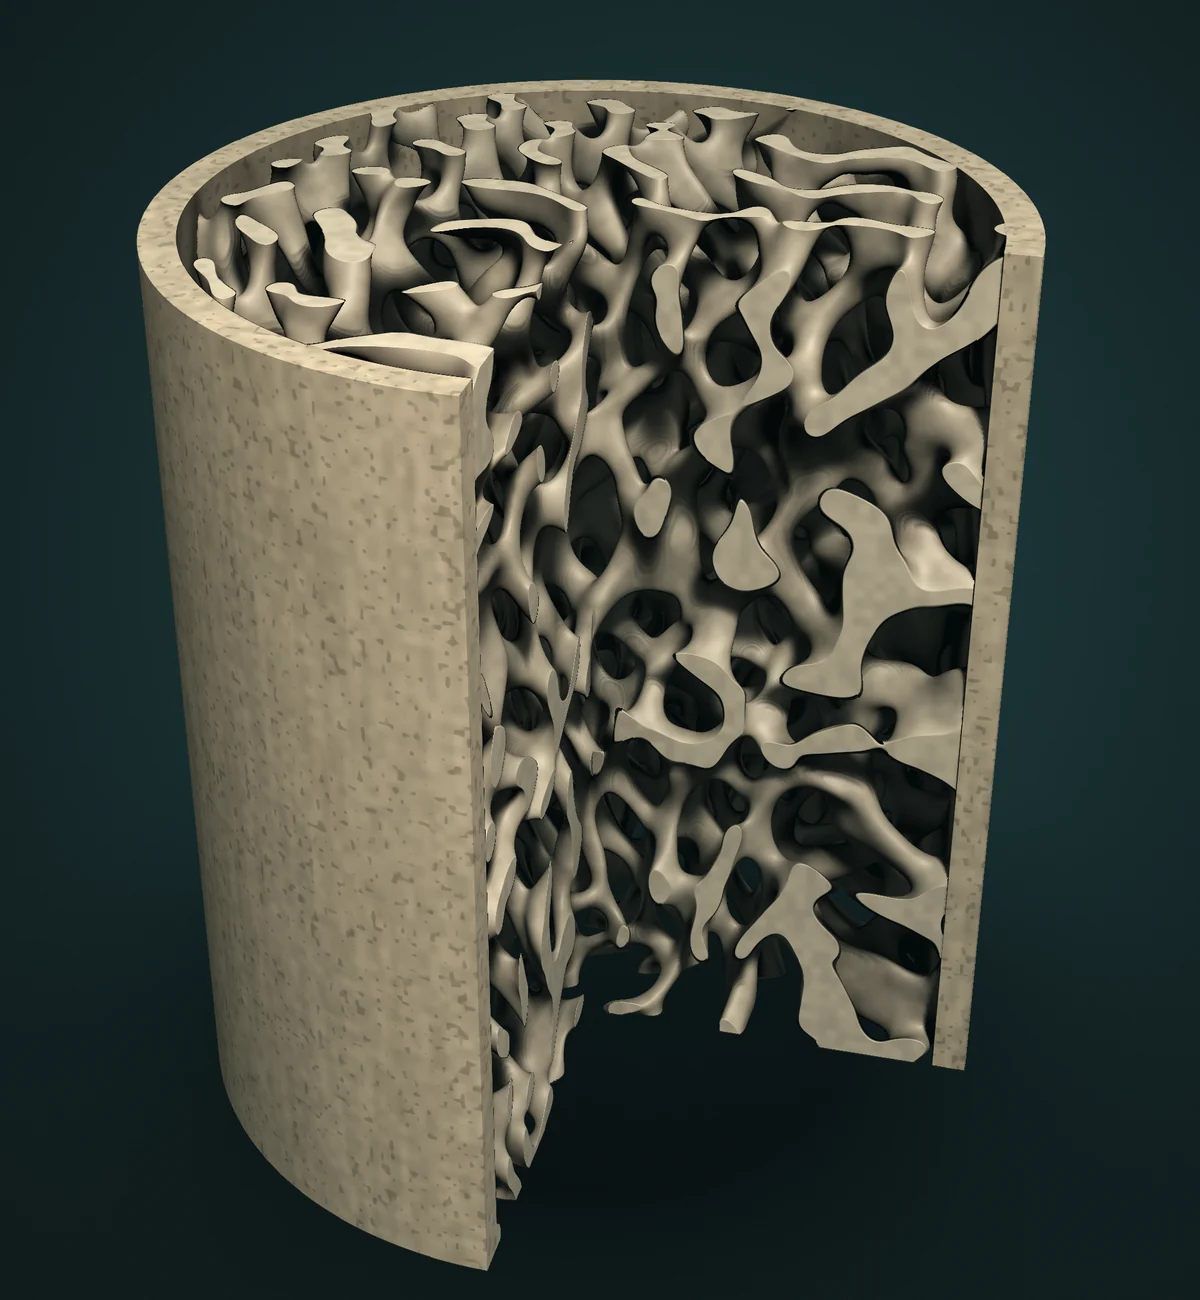
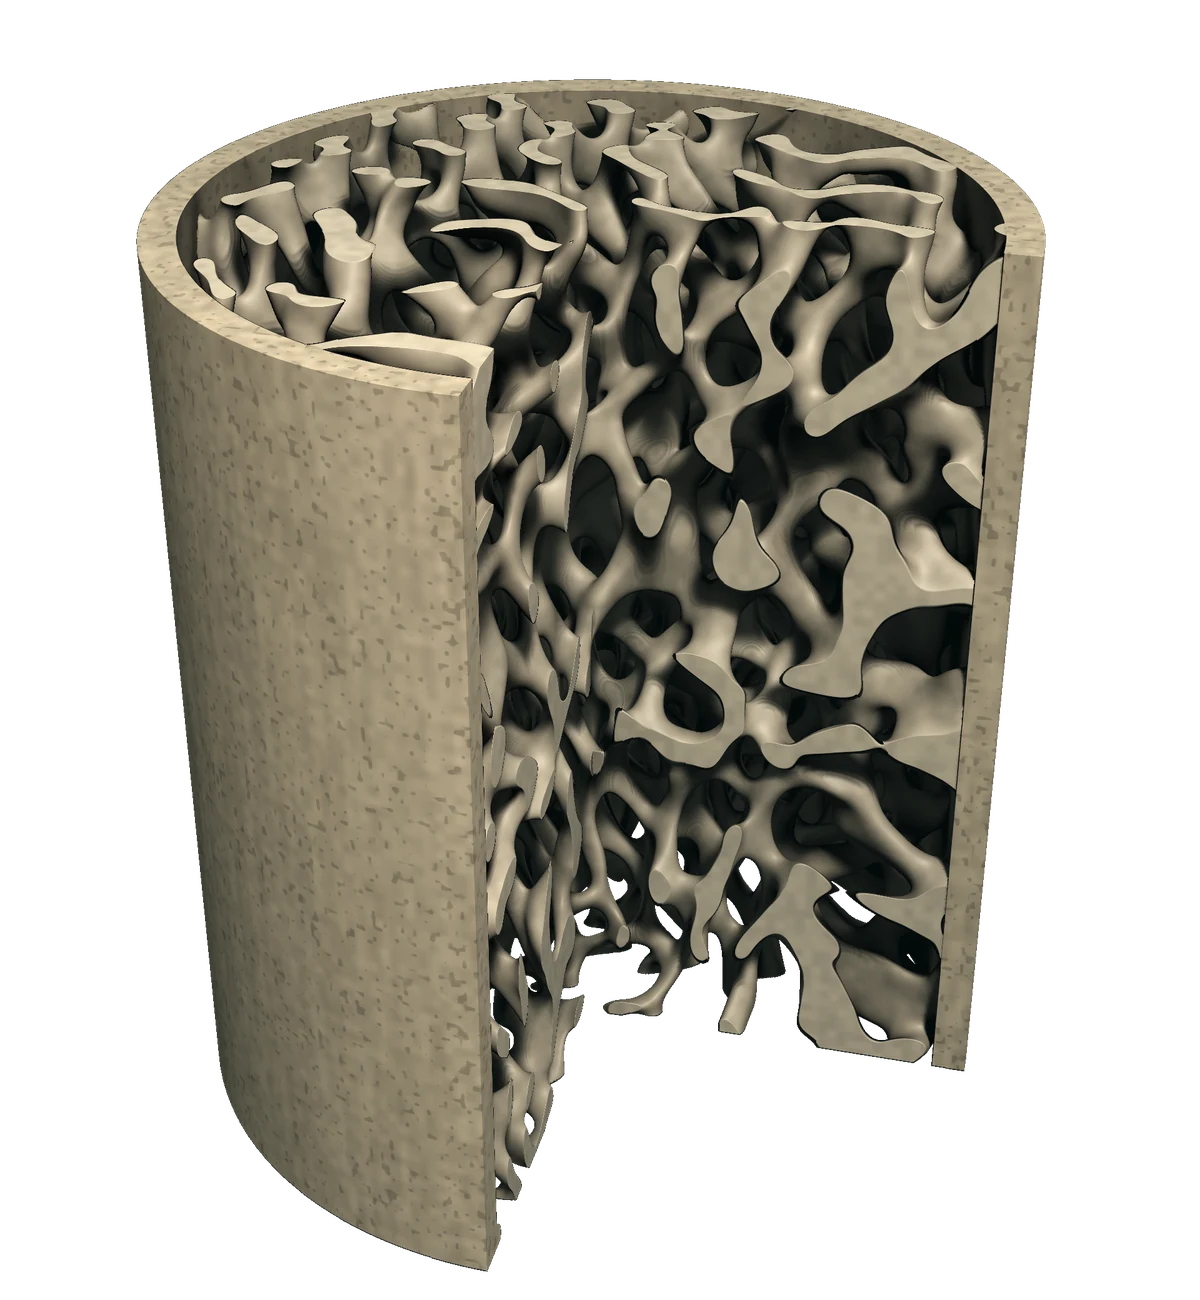
Enyx Therapeutics rev2: hero render saved with alpha and no ground of its own, so no edge of the image rect reads as a pasted box; the ambient teal glow moves to the live canvas across the whole viewport; the bone core is seated lower, clear of the header
Coordinator review of rev1: a hard vertical edge at x~695 and a horizontal
one at y~36 at 1440, where the render's lighter teal ground met the page ink.
Fixed at the source rather than feathered: render.py now writes RGBA with a
fully transparent background (no bg glow, no floor pool, tone-map and grain
applied to lit pixels only), so only the bone composites onto the page.
Pixel-scanned at 1440 (no step at either former seam) and checked by eye at
1440, 1920 and 390. clip, smoke, loader, logo, balance, overlay, polish,
buildout, reveal, mixed, unstyled all pass; prepush-check run before pushing.

Claude-Session: https://claude.ai/code/session_014388NGtjZp7StkbYhsHp9o

diff --git a/enyxtherapeutics/index.html b/enyxtherapeutics/index.html
@@ -1108,12 +1108,13 @@ var CSS=
 function slug(s){return String(s).toLowerCase().normalize("NFD").replace(/[̀-ͯ]/g,"").replace(/&/g," and ").replace(/[^a-z0-9]+/g,"-").replace(/^-+|-+$/g,"")}
 function esc(s){return String(s).replace(/[&<>"']/g,function(c){return {"&":"&amp;","<":"&lt;",">":"&gt;",'"':"&quot;","'":"&#39;"}[c]})}
 function label(a){var t=(a.getAttribute("data-label")||a.textContent||"").replace(/\s+/g," ").trim();return t}
-function isContact(a){var h=a.getAttribute("href")||"",t=label(a);return /contact/i.test(h)||/^(contact|kontakt|contacto|contatti|contactez)/i.test(t)||/^mailto:|^tel:/i.test(h)}
+var TA=["data-to","data-go","data-sec"];function tgt(a){for(var i=0;i<TA.length;i++){var v=a.getAttribute(TA[i]);if(v)return TA[i]+"="+v}return ""}
+function isContact(a){var h=a.getAttribute("href")||"",t=label(a);return /contact/i.test(h+" "+tgt(a))||/^(contact|kontakt|contacto|contatti|contactez)/i.test(t)||/^mailto:|^tel:/i.test(h)}
 /* the primary nav items: header nav links and the mobile menu list; Home, Contact and anything off-site are excluded */
 function navAnchors(){var out=[];Array.prototype.forEach.call(D.querySelectorAll("#hdr nav a[href^='#'], .hdr nav a[href^='#'], #mm a[href^='#']"),function(a){
-  var h=a.getAttribute("href");if(!h||h==="#"||h==="#/"||h==="#main"||/^#\/more\//.test(h))return;if(a.classList.contains("brand")||isContact(a)||h==="#hero"||h==="#top"||/^(home|start|accueil|inicio|startseite)$/i.test(label(a)))return;if(!label(a))return;out.push(a)});return out}
+  var h=a.getAttribute("href"),to=tgt(a);if(!h||h==="#"||(h==="#/"&&!to)||h==="#main"||/^#\/more\//.test(h))return;if(a.classList.contains("brand")||isContact(a)||h==="#hero"||h==="#top"||/^(home|start|accueil|inicio|startseite)$/i.test(label(a)))return;if(!label(a))return;out.push(a)});return out}
 function isNavItem(a){return navAnchors().indexOf(a)>=0}
-function items(){var seen={},list=[];navAnchors().forEach(function(a){var t=label(a),s=slug(t);if(!s||seen[s])return;seen[s]=1;list.push({slug:s,label:t,href:a.getAttribute("href")})});return list}
+function items(){var seen={},list=[];navAnchors().forEach(function(a){var t=label(a),s=slug(t);if(!s||seen[s])return;seen[s]=1;list.push({slug:s,label:t,href:a.getAttribute("href"),to:tgt(a)})});return list}
 function findItem(s){var l=items();for(var i=0;i<l.length;i++)if(l[i].slug===s)return l[i];return null}
 function moreSlug(h){var m=/^#\/more\/([^/?#]+)\/?$/.exec(h||"");return m?decodeURIComponent(m[1]):null}
 
@@ -1136,7 +1137,7 @@ function build(it){style();
     '<h1 class="d2 bo-h" id="boTitle" tabindex="-1" data-bo-r>'+h+'</h1>'+
     '<p class="bo-p" data-bo-r>'+esc(L.body)+'</p>'+
     '<div class="bo-act" data-bo-r><a class="btn solid" href="#/" data-bo-home>'+esc(L.back)+' '+ARR+'</a>'+
-    '<a class="bo-keep" href="'+esc(it.href)+'" data-bo-keep>'+esc(L.keep)+'</a></div></div>'+
+    '<a class="bo-keep" href="'+esc(it.href)+'" data-bo-keep'+(it.to?' data-bo-to="'+esc(it.to)+'"':'')+'>'+esc(L.keep)+'</a></div></div>'+
     '<div class="lab bo-foot" data-bo-r><span>'+esc(site)+'</span><span>'+String(idx+1).padStart(2,"0")+' / '+String(l.length).padStart(2,"0")+' · '+esc(it.label)+'</span></div></section>';
   var f=cloneFooter();if(f)bo.appendChild(f);
   bo.scrollTop=0}
@@ -1152,8 +1153,11 @@ function current(it){navAnchors().forEach(function(a){if(it&&slug(label(a))===it
 function closeMenu(cb){if(!D.body.classList.contains("menu-open")){cb();return}var b=D.getElementById("burger");if(b)b.click();setTimeout(cb,420)}
 function curtain(mid,done){var xc=D.getElementById("xc"),g=window.gsap;
   if(RM||!g||!xc){mid();if(done)done();return}
-  g.killTweensOf(xc);var tl=g.timeline({onComplete:function(){g.set(xc,{yPercent:101});if(done)done()}});
-  tl.fromTo(xc,{yPercent:101},{yPercent:0,duration:.6,ease:"power3.inOut"}).call(mid).to(xc,{yPercent:-101,duration:.6,ease:"power3.inOut"},"+=.08")}
+  /* the swap must never wait on frames: on a slow device (or a busy page) GSAP lag-smoothing can stretch the wipe, so timers guarantee both halves */
+  var m=0,d=0;function runMid(){if(m)return;m=1;mid()}function fin(){if(d)return;d=1;runMid();g.killTweensOf(xc);g.set(xc,{yPercent:101});if(done)done()}
+  g.killTweensOf(xc);var tl=g.timeline({onComplete:fin});
+  tl.fromTo(xc,{yPercent:101},{yPercent:0,duration:.6,ease:"power3.inOut"}).call(runMid).to(xc,{yPercent:-101,duration:.6,ease:"power3.inOut"},"+=.08");
+  setTimeout(runMid,750);setTimeout(function(){if(!d){tl.kill();fin()}},1700)}
 function reveal(){var g=window.gsap;if(RM||!g||!bo)return;var els=bo.querySelectorAll("[data-bo-r]");g.fromTo(els,{y:22,opacity:0},{y:0,opacity:1,duration:.9,ease:"power3.out",stagger:.07,delay:.32,clearProps:"transform,opacity"})}
 function show(it){if(baseTitle===null)baseTitle=D.title;cur=it;
   curtain(function(){
@@ -1170,22 +1174,22 @@ function hide(after){
   },after)}
 /* leave the build-out page through history so the browser stack stays [home, more]; then run cb on home */
 function leave(cb){leaving=cb||function(){};if(deep&&history.length<2){history.replaceState(null,"","#/");onHash()}else history.back()}
-function replay(href){var a=null;Array.prototype.some.call(D.querySelectorAll("#hdr nav a[href], .hdr nav a[href], #view a[href]"),function(x){if(x.getAttribute("href")===href){a=x;return true}});
+function replay(href,to){var a=null;Array.prototype.some.call(D.querySelectorAll("#hdr nav a[href], .hdr nav a[href], #view a[href]"),function(x){if(x.getAttribute("href")===href&&(!to||tgt(x)===to)){a=x;return true}});
   bypass=true;try{if(a)a.click();else location.hash=href}finally{bypass=false}}
 
 /* clicks: capture on window so this runs before the site's own (document-level) handlers */
 window.addEventListener("click",function(e){if(bypass||e.defaultPrevented||e.button>0||e.metaKey||e.ctrlKey||e.shiftKey||e.altKey)return;
   var a=e.target.closest&&e.target.closest("a[href]");if(!a)return;var h=a.getAttribute("href");
   if(open&&bo&&bo.contains(a)){
-    if(a.hasAttribute("data-bo-home")){e.preventDefault();e.stopPropagation();leave();return}
-    if(a.hasAttribute("data-bo-keep")){e.preventDefault();e.stopPropagation();leave(function(){replay(h)});return}
-    if(h.charAt(0)==="#"){e.preventDefault();e.stopPropagation();var mo=moreSlug(h);if(mo){var it=findItem(mo);if(it&&(!cur||it.slug!==cur.slug)){history.replaceState(null,"",h);show(it)}return}leave(h==="#/"||h==="#main"?null:function(){replay(h)});return}
+    if(a.hasAttribute("data-bo-home")){e.preventDefault();e.stopImmediatePropagation();leave();return}
+    if(a.hasAttribute("data-bo-keep")){e.preventDefault();e.stopImmediatePropagation();leave(function(){replay(h,a.getAttribute("data-bo-to"))});return}
+    if(h.charAt(0)==="#"){e.preventDefault();e.stopImmediatePropagation();var mo=moreSlug(h);if(mo){var it=findItem(mo);if(it&&(!cur||it.slug!==cur.slug)){history.replaceState(null,"",h);show(it)}return}leave(h==="#/"||h==="#main"?null:function(){replay(h)});return}
     return}
   if(h.charAt(0)!=="#")return;
-  if(isNavItem(a)){e.preventDefault();e.stopPropagation();var it2=findItem(slug(label(a)));if(!it2)return;var to="#/more/"+it2.slug;
+  if(isNavItem(a)){e.preventDefault();e.stopImmediatePropagation();var it2=findItem(slug(label(a)));if(!it2)return;var to="#/more/"+it2.slug;
     closeMenu(function(){if(open){if(cur&&cur.slug===it2.slug)return;history.replaceState(null,"",to);show(it2)}else{history.pushState(null,"",to);show(it2)}});return}
   if(open){/* header brand / Contact / Home while the build-out page is up: go home first, then let the site handle it */
-    e.preventDefault();e.stopPropagation();closeMenu(function(){leave(h==="#/"||h==="#main"?null:function(){replay(h)})})}
+    e.preventDefault();e.stopImmediatePropagation();closeMenu(function(){leave(h==="#/"||h==="#main"?null:function(){replay(h)})})}
 },true);
 
 /* history: this listener is registered before the site's router, so #/more/* never reaches it */
@@ -1397,7 +1401,7 @@ var field=(function(){
     var U=mob?Math.min(h*.5,w*1.08):h;
     /* the skin block's centre sits at about (0.5, 0.5) of the render */
     var ih=mob?Math.min(U*1.04,(U-96)/.8):Math.min(h*.98,cw*.8),iw=ih*(1200/1300);
-    var kx=mob?w*.5:side+cw*.79,ky=mob?(84+U-12)/2:h*.53;
+    var kx=mob?w*.5:side+cw*.79,ky=mob?(84+U-12)/2:h*.585;  /* rev2: the core sits lower, so its top rim is not crowded by the header */
     return {mob:mob,side:side,cw:cw,U:U,ih:ih,iw:iw,kx:kx,ky:ky,bh:mob?U:h};
   }
   function size(){dpr=Math.min(window.devicePixelRatio||1,2);w=document.documentElement.clientWidth||innerWidth;h=innerHeight;cv.width=Math.round(w*dpr);cv.height=Math.round(h*dpr);G=geo();if(!running)frame(true)}
@@ -1412,6 +1416,12 @@ var field=(function(){
       /* a very slow breath: push in ~4% and drift up a touch over ~44s, eased back and forth */
       var k=.5-.5*Math.cos(t*Math.PI*2/44),sc=(1+.04*k)*(1+.035*(1-e));
       var dw=G.iw*sc,dh=G.ih*sc,x=G.kx-dw*.5,y=G.ky-dh*.5-k*G.ih*.012-SP.v*G.ih*.06;
+      /* the ambient teal glow, painted across the WHOLE canvas (never inside the image rect alone), so no
+         edge of the baked render can read as a pasted box (coordinator review, rev2) */
+      var ggx=G.mob?w*.5:G.side+G.cw*.72,ggy=G.mob?G.bh*.42:h*.46,ggr=Math.max(w,h)*.78;
+      var ag=c.createRadialGradient(ggx,ggy,0,ggx,ggy,ggr);
+      ag.addColorStop(0,"rgba(22,46,48,"+(.55*e).toFixed(3)+")");ag.addColorStop(.55,"rgba(16,33,35,"+(.3*e).toFixed(3)+")");ag.addColorStop(1,"rgba(11,21,22,0)");
+      c.fillStyle=ag;c.fillRect(0,0,w,h);
       c.globalAlpha=e;c.drawImage(img,x,y,dw,dh);
       /* a faint glow breathing over the topical film */
       var pu=.5+.5*Math.sin(t*Math.PI*2/9),px=x+dw*.56,py=y+dh*.42,pr=dw*.3;

diff --git a/_kit/src/enyxtherapeutics.src.html b/_kit/src/enyxtherapeutics.src.html
@@ -1060,7 +1060,7 @@ var field=(function(){
     var U=mob?Math.min(h*.5,w*1.08):h;
     /* the skin block's centre sits at about (0.5, 0.5) of the render */
     var ih=mob?Math.min(U*1.04,(U-96)/.8):Math.min(h*.98,cw*.8),iw=ih*(1200/1300);
-    var kx=mob?w*.5:side+cw*.79,ky=mob?(84+U-12)/2:h*.53;
+    var kx=mob?w*.5:side+cw*.79,ky=mob?(84+U-12)/2:h*.585;  /* rev2: the core sits lower, so its top rim is not crowded by the header */
     return {mob:mob,side:side,cw:cw,U:U,ih:ih,iw:iw,kx:kx,ky:ky,bh:mob?U:h};
   }
   function size(){dpr=Math.min(window.devicePixelRatio||1,2);w=document.documentElement.clientWidth||innerWidth;h=innerHeight;cv.width=Math.round(w*dpr);cv.height=Math.round(h*dpr);G=geo();if(!running)frame(true)}
@@ -1075,6 +1075,12 @@ var field=(function(){
       /* a very slow breath: push in ~4% and drift up a touch over ~44s, eased back and forth */
       var k=.5-.5*Math.cos(t*Math.PI*2/44),sc=(1+.04*k)*(1+.035*(1-e));
       var dw=G.iw*sc,dh=G.ih*sc,x=G.kx-dw*.5,y=G.ky-dh*.5-k*G.ih*.012-SP.v*G.ih*.06;
+      /* the ambient teal glow, painted across the WHOLE canvas (never inside the image rect alone), so no
+         edge of the baked render can read as a pasted box (coordinator review, rev2) */
+      var ggx=G.mob?w*.5:G.side+G.cw*.72,ggy=G.mob?G.bh*.42:h*.46,ggr=Math.max(w,h)*.78;
+      var ag=c.createRadialGradient(ggx,ggy,0,ggx,ggy,ggr);
+      ag.addColorStop(0,"rgba(22,46,48,"+(.55*e).toFixed(3)+")");ag.addColorStop(.55,"rgba(16,33,35,"+(.3*e).toFixed(3)+")");ag.addColorStop(1,"rgba(11,21,22,0)");
+      c.fillStyle=ag;c.fillRect(0,0,w,h);
       c.globalAlpha=e;c.drawImage(img,x,y,dw,dh);
       /* a faint glow breathing over the topical film */
       var pu=.5+.5*Math.sin(t*Math.PI*2/9),px=x+dw*.56,py=y+dh*.42,pr=dw*.3;

diff --git a/_kit/home/enyxtherapeutics/field.js b/_kit/home/enyxtherapeutics/field.js
@@ -15,7 +15,7 @@ var field=(function(){
     var U=mob?Math.min(h*.5,w*1.08):h;
     /* the skin block's centre sits at about (0.5, 0.5) of the render */
     var ih=mob?Math.min(U*1.04,(U-96)/.8):Math.min(h*.98,cw*.8),iw=ih*(1200/1300);
-    var kx=mob?w*.5:side+cw*.79,ky=mob?(84+U-12)/2:h*.53;
+    var kx=mob?w*.5:side+cw*.79,ky=mob?(84+U-12)/2:h*.585;  /* rev2: the core sits lower, so its top rim is not crowded by the header */
     return {mob:mob,side:side,cw:cw,U:U,ih:ih,iw:iw,kx:kx,ky:ky,bh:mob?U:h};
   }
   function size(){dpr=Math.min(window.devicePixelRatio||1,2);w=document.documentElement.clientWidth||innerWidth;h=innerHeight;cv.width=Math.round(w*dpr);cv.height=Math.round(h*dpr);G=geo();if(!running)frame(true)}
@@ -30,6 +30,12 @@ var field=(function(){
       /* a very slow breath: push in ~4% and drift up a touch over ~44s, eased back and forth */
       var k=.5-.5*Math.cos(t*Math.PI*2/44),sc=(1+.04*k)*(1+.035*(1-e));
       var dw=G.iw*sc,dh=G.ih*sc,x=G.kx-dw*.5,y=G.ky-dh*.5-k*G.ih*.012-SP.v*G.ih*.06;
+      /* the ambient teal glow, painted across the WHOLE canvas (never inside the image rect alone), so no
+         edge of the baked render can read as a pasted box (coordinator review, rev2) */
+      var ggx=G.mob?w*.5:G.side+G.cw*.72,ggy=G.mob?G.bh*.42:h*.46,ggr=Math.max(w,h)*.78;
+      var ag=c.createRadialGradient(ggx,ggy,0,ggx,ggy,ggr);
+      ag.addColorStop(0,"rgba(22,46,48,"+(.55*e).toFixed(3)+")");ag.addColorStop(.55,"rgba(16,33,35,"+(.3*e).toFixed(3)+")");ag.addColorStop(1,"rgba(11,21,22,0)");
+      c.fillStyle=ag;c.fillRect(0,0,w,h);
       c.globalAlpha=e;c.drawImage(img,x,y,dw,dh);
       /* a faint glow breathing over the topical film */
       var pu=.5+.5*Math.sin(t*Math.PI*2/9),px=x+dw*.56,py=y+dh*.42,pr=dw*.3;

diff --git a/_kit/home/enyxtherapeutics/render.py b/_kit/home/enyxtherapeutics/render.py
@@ -127,24 +127,24 @@ depth = np.clip((T[hi] - 4.2) / 2.0, 0, 1)
 col = col * (1 - .35 * depth[:, None]) + teal * .1 * depth[:, None]
 
 img = np.zeros((N, 3))
-# background: ink with a faint teal glow behind the core
-by_, bx_ = (ys / H).reshape(-1), (xs / W).reshape(-1)
-gl = np.exp(-(((bx_ - .55) / .55) ** 2 + ((by_ - .42) / .5) ** 2))
-bg = np.array([10, 17, 18]) / 255 * (1 - gl[:, None]) + np.array([22, 46, 48]) / 255 * gl[:, None]
-img[:] = bg
-# a soft shadow pool on the (unseen) floor under the core
-fl = np.where(D[:, 1] < 0, (Y0 - CAM[1]) / np.minimum(D[:, 1], -1e-6), 1e9)
-FP = CAM + D * fl[:, None]
-rr = np.sqrt(FP[:, 0] ** 2 + FP[:, 2] ** 2)
-pool = np.clip(1 - (rr - .7) / 1.1, 0, 1) ** 2 * (fl < 1e8)
-img = img * (1 - .55 * pool[:, None])
+# background: EXACTLY the page ink, flat and unlit, so the baked image has no ground of its own and its
+# edges cannot read as a pasted box against the page (coordinator review, rev2). Any glow belongs to the
+# live canvas in field.js, which paints it across the whole viewport instead of inside the image rect.
+INK = np.array([11, 21, 22]) / 255
+img[:] = INK     # only ever seen through antialiased edge pixels; the file is saved with an alpha channel
+# no floor shadow: there is no ground plane in the composition, and any pool would tint the flat
+# ink inside the image rect only, which is the box edge this revision removes.
 img[hi] = col
-# filmic tone
-img = img / (1 + img * .35) * 1.3
-img = np.clip(img, 0, 1) ** (1 / 1.05)
-img = np.clip(img + (rng.random((N, 1)) - .5) * .018, 0, 1)
-im = Image.fromarray((img.reshape(H, W, 3) * 255).astype(np.uint8))
-# contact glow on the floor under the core (no floor drawn: a soft shadow pool)
+# filmic tone, on the rendered pixels only (the flat ink background is left exactly as it is)
+lit = img[hi]
+lit = lit / (1 + lit * .35) * 1.3
+img[hi] = np.clip(lit, 0, 1) ** (1 / 1.05)
+img[hi] = np.clip(img[hi] + (rng.random((len(hi), 1)) - .5) * .018, 0, 1)
+# rev2: save with ALPHA — the background is fully transparent, so the page (and the live canvas glow)
+# shows through and no edge of the image rect can ever read as a pasted box.
+alpha = np.zeros(N); alpha[hi] = 1.0
+rgba = np.concatenate([img, alpha[:, None]], 1).reshape(H, W, 4)
+im = Image.fromarray((rgba * 255).astype(np.uint8), 'RGBA')
 if SS != 1: im = im.resize((FW, FH), Image.LANCZOS)
 im.save(OUT)
 print('wrote', OUT)

diff --git a/_kit/dossiers/enyxtherapeutics.md b/_kit/dossiers/enyxtherapeutics.md
@@ -91,6 +91,13 @@ Screenshot: `_kit/sourcing/v2-sheets/11e-enyxtherapeutics.jpg`.
   load-aligned gyroid network, ambient occlusion, soft shadows, bone-ivory albedo with cortical porosity),
   baked to `hero.webp`; the hero canvas gives it a slow Ken Burns breath and no pointer response (CZ). The
   core sits right of 55% with a teal wash across the headline side, so nothing busy sits behind the H1.
+  **rev2 (coordinator review):** the render is saved with an **alpha channel** and no ground of its own, so
+  only the bone composites onto the page and no edge of the image rect can read as a pasted box; the ambient
+  teal glow that used to sit inside the render is now painted by the live canvas across the whole viewport,
+  and the core is seated lower (ky 0.53 → 0.585 of the viewport height) so its top rim is not crowded by the
+  header. Verified by pixel scan at 1440 (no step at the former seams x≈695 and y≈36) and by eye at 1440,
+  1920 and 390. The 16px strip at the extreme right is the reserved scrollbar gutter (`scrollbar-gutter:
+  stable`, rule CT) and behaves identically on the shipped /phusistherapeutics/.
 - **Story (pinned, DB).** One engraved section of trabecular bone over the blood stream, held for all three
   steps: acetaldehyde accumulates → the struts thin and break → one dose of ENX03 is taken up, ALDH2 appears,
   the acetaldehyde clears and the lattice is rebuilt.
